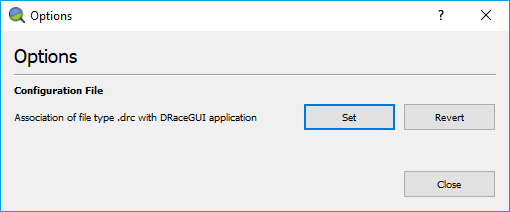
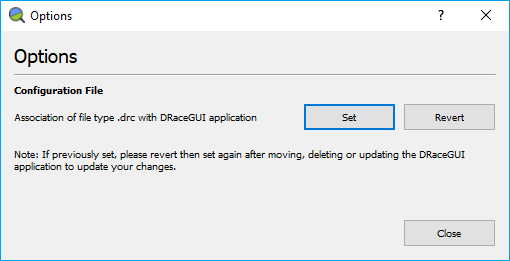
refactor: add note in DRaceGUI options for file type association

diff --git a/HowTo/README.md b/HowTo/README.md
@@ -84,7 +84,7 @@ Other settings can be managed under *Tools->Options*.
 
 *Configuration File Settings:*
 
-The user is able to save configuration data from DRaceGUI with specialized `.drc` files by default. Click on "Set" to associate the default configuration file type `.drc` with the DRaceGUI, which would enable the user to interact with saved configuration files easily. When double-clicked, these `.drc` configuration files would open the DRaceGUI with the configuration data pre-loaded into the DRaceGUI. Click on "Revert" to undo a successful association.
+The user is able to save configuration data from DRaceGUI with specialized `.drc` files by default. Click on "Set" to associate the default configuration file type `.drc` with the DRaceGUI, which would enable the user to interact with saved configuration files easily. When double-clicked, these `.drc` configuration files would open the DRaceGUI with the configuration data pre-loaded into the DRaceGUI. Click on "Revert" to undo a successful association. Please note that moving, deleting or updating the DRaceGUI after setting this option requires reverting and setting it again.
 
 ### Shell-Usage
 

diff --git a/tools/DRaceGUI/README.md b/tools/DRaceGUI/README.md
@@ -27,4 +27,4 @@ If the install target of DRace is built, the ```drace-gui.exe``` can be found in
 - If custom DRace flags are set with the text input, potentially needed quotes must be set by the user.
 - The *RUN* button only works, if the command meets certain validation criteria (this does not mean that a command is valid, when RUN works).
 - The report settings can be adjusted in *Report->Configure Report*.
-- Further settings can be found under *Tools->Options*, for instance setting the configuration file with the default extension to be able to open with the DRaceGUI by default.
+- Further settings can be found under *Tools->Options*, for instance setting the configuration file with the default extension to be able to open with the DRaceGUI by default *[please note that moving, deleting or updating the DRaceGUI after setting this option requires reverting and setting it again]*.
